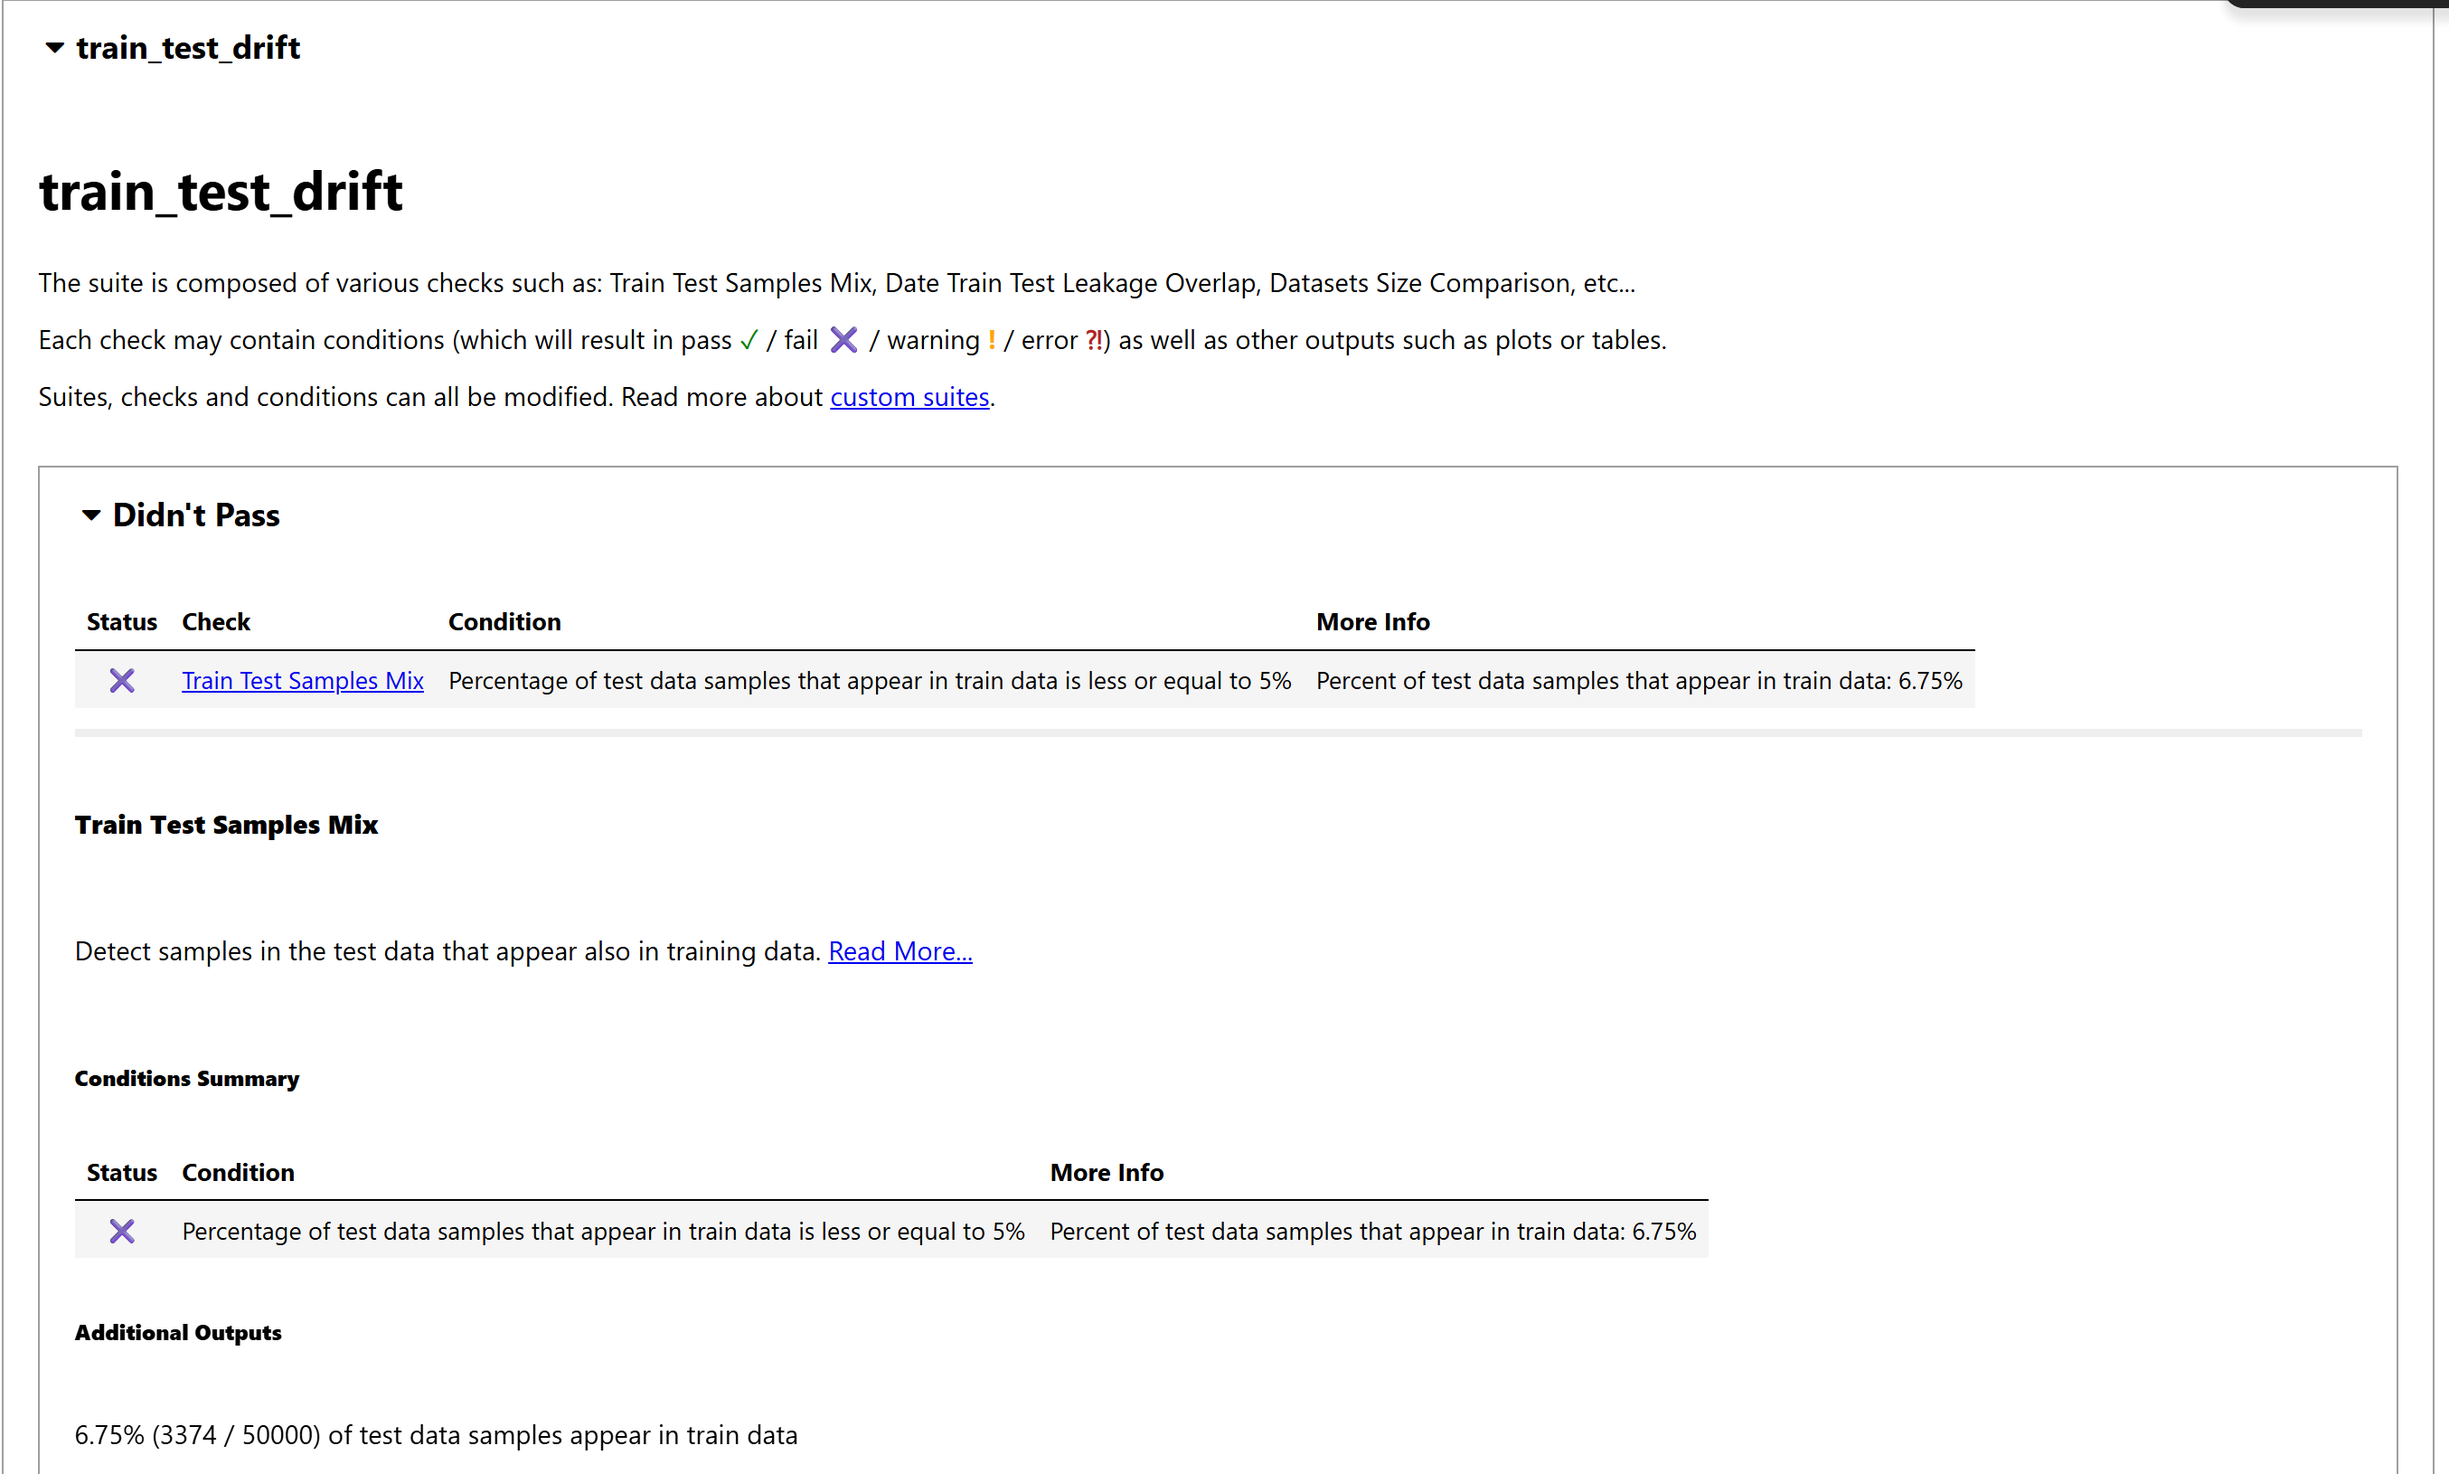
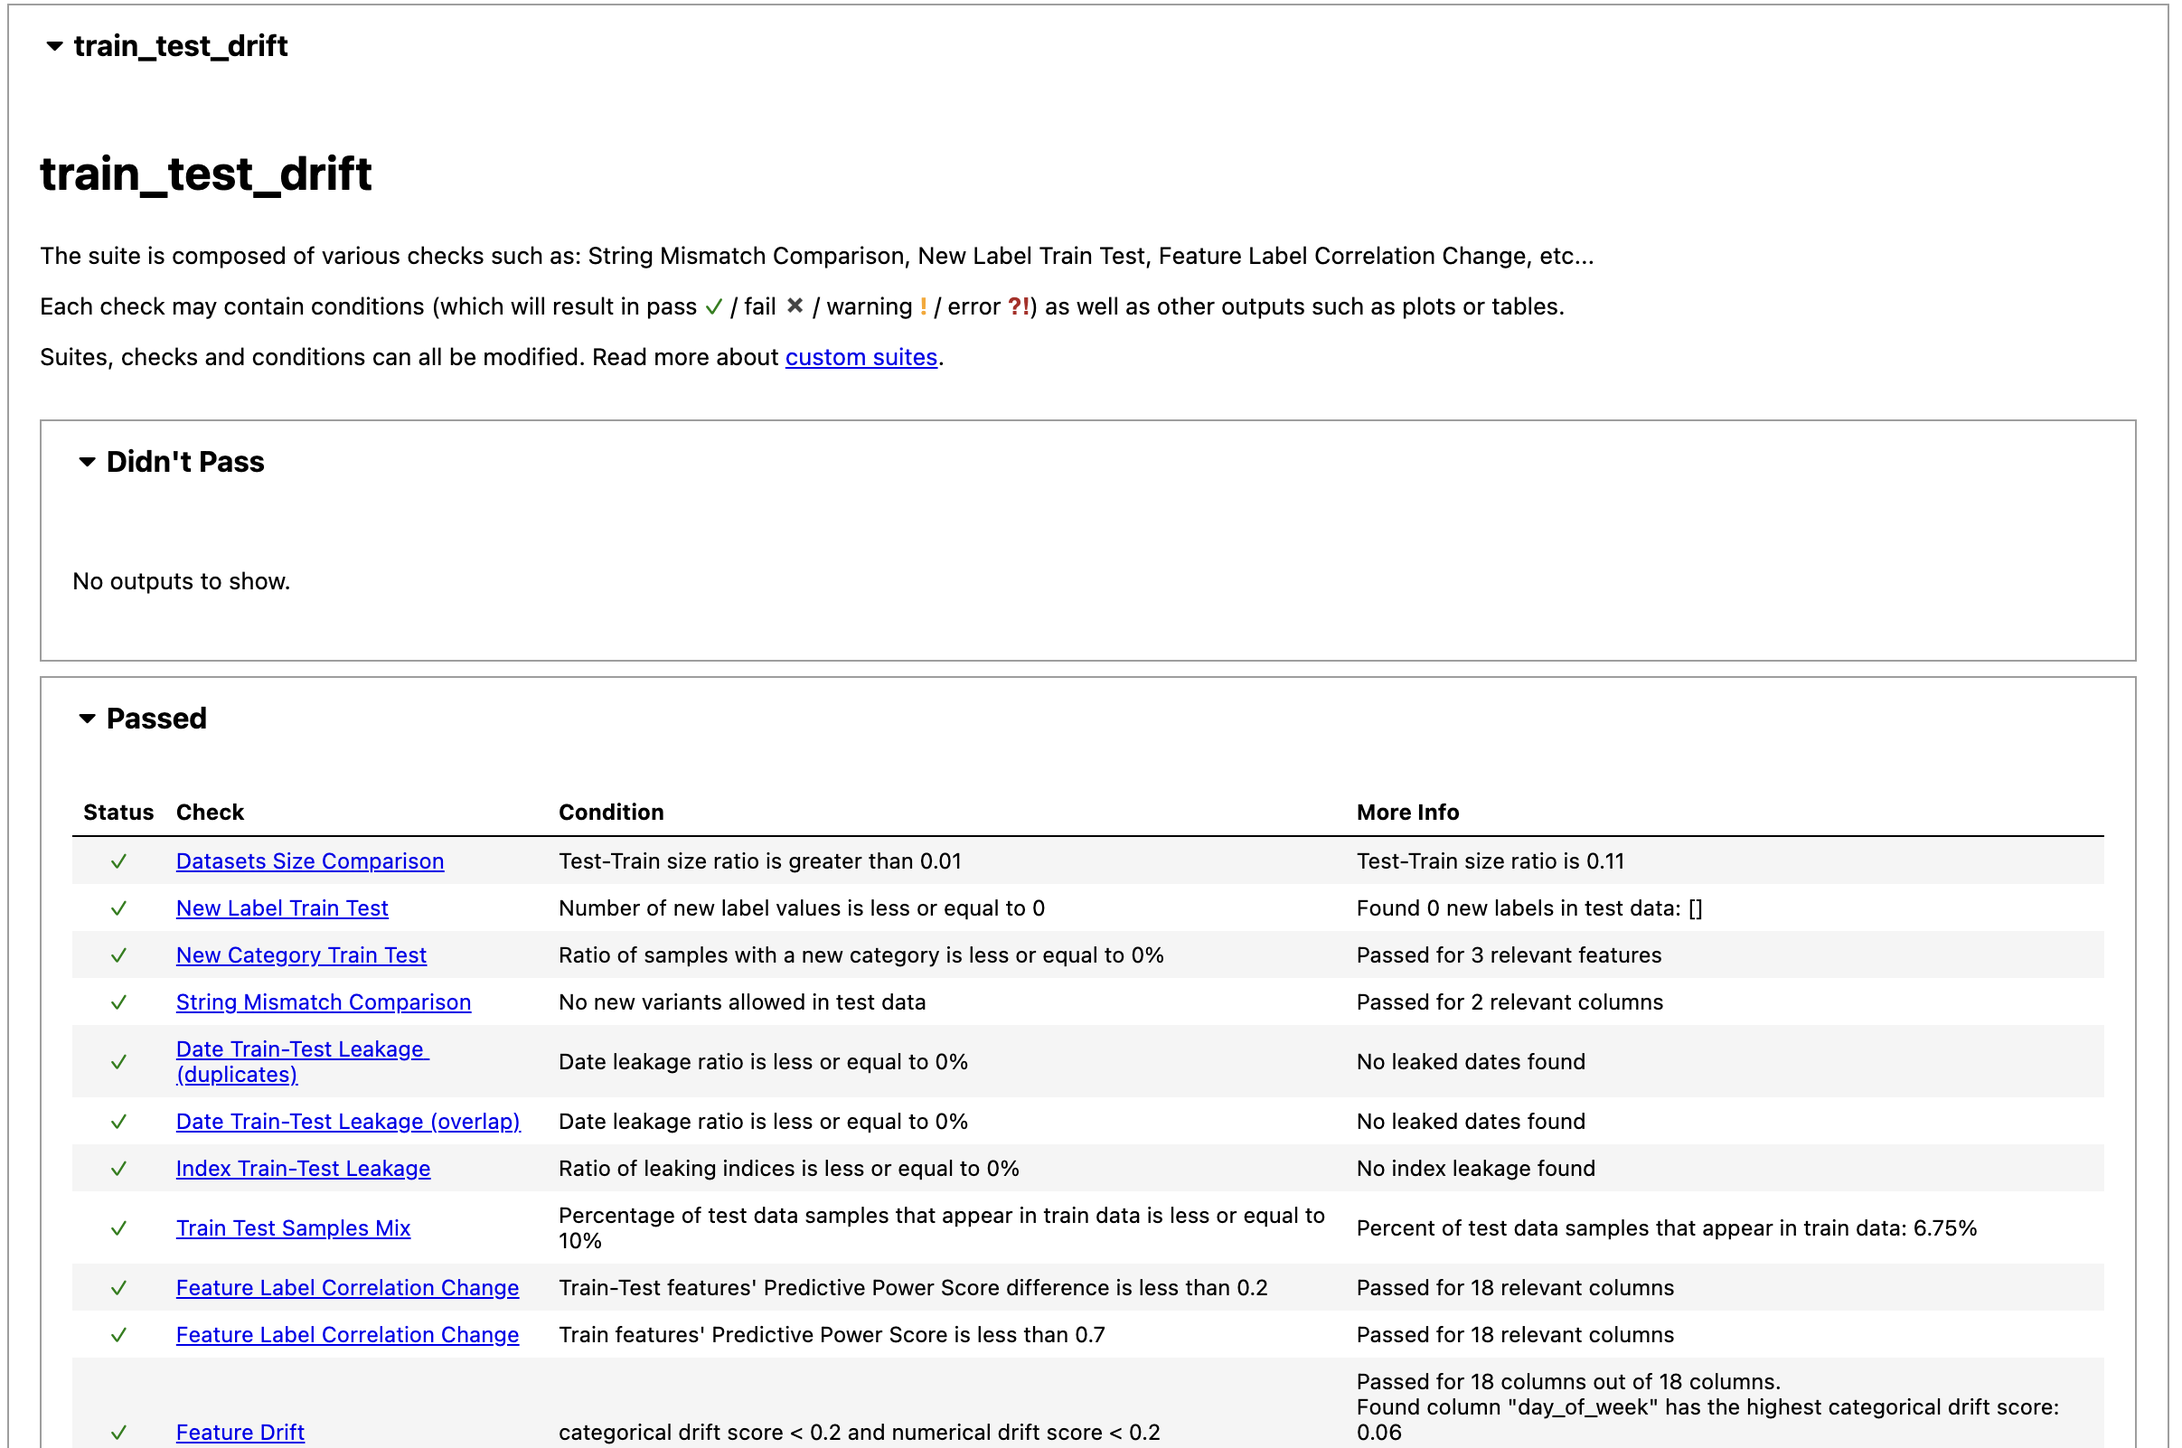
docs(readme): refresh validation evidence for 272 tests and new limits

diff --git a/README.md b/README.md
@@ -288,13 +288,13 @@ para hacerlo queda documentado en `resultados.md`.
 
 ### Evidencia
 
-En la última revisión, `make test` terminó con 267 pruebas aprobadas. Después agregamos cinco casos y ejecutamos las 12 pruebas de DeepChecks por separado. `make security` y `make data-checks` también terminaron correctamente. Las siguientes capturas corresponden a una corrida anterior a los últimos cambios:
+En la última revisión, `make test` terminó con 272 pruebas aprobadas, y `make security` y `make data-checks` también terminaron correctamente. Capturas de la sesión de validación, con el comando que produjo cada una:
 
-- `uv run pytest -q --disable-warnings` → 263 passed
+- `uv run pytest -q --disable-warnings` → 272 passed
   ![pytest](reports/figures/entrega3/01-pytest.png)
 - `make security` → bandit sin hallazgos y pip-audit sin vulnerabilidades
   ![make security](reports/figures/entrega3/03-security.png)
-- reporte HTML de `make data-checks` → `Train Test Samples Mix` no cumplida
+- reporte HTML de `make data-checks` → `Train Test Samples Mix` cumplida
   ![DeepChecks train/test drift](reports/figures/entrega3/02-deepchecks.png)
 - `make help` → targets disponibles
   ![make help](reports/figures/entrega3/04-make-help.png)
